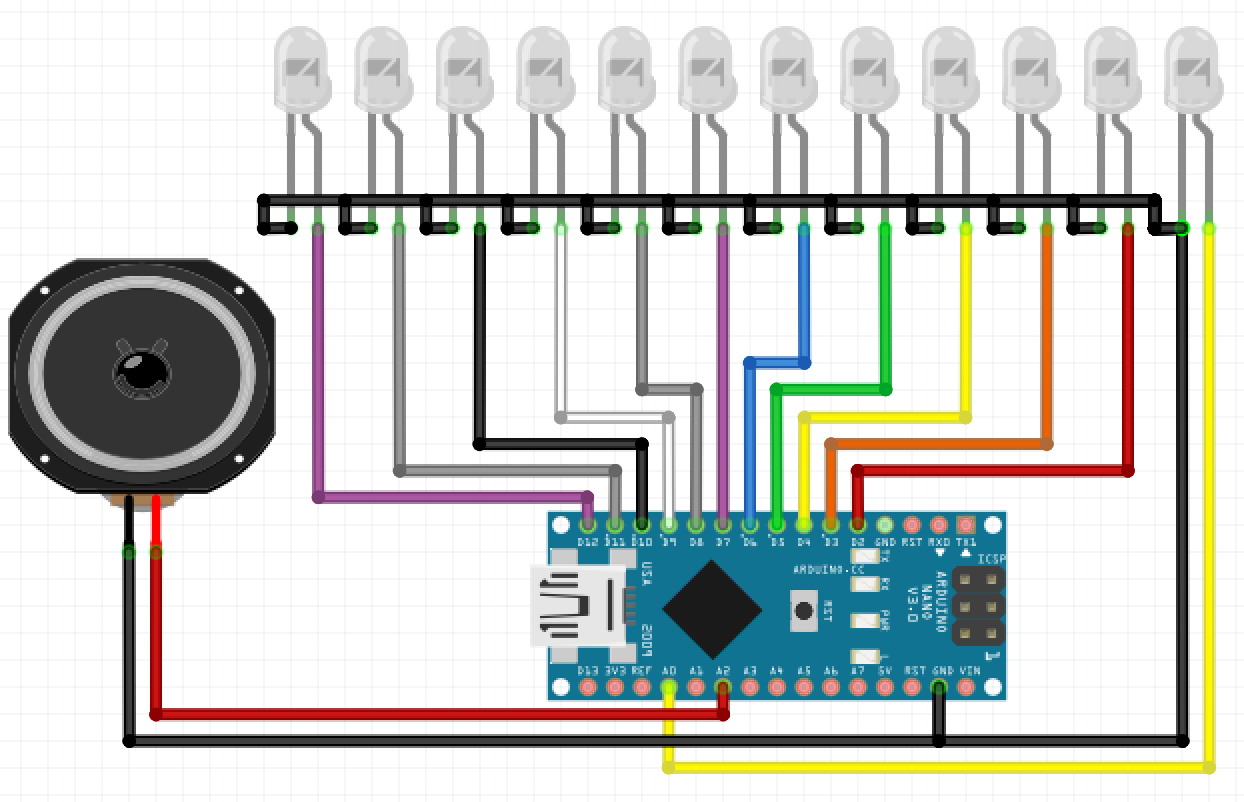
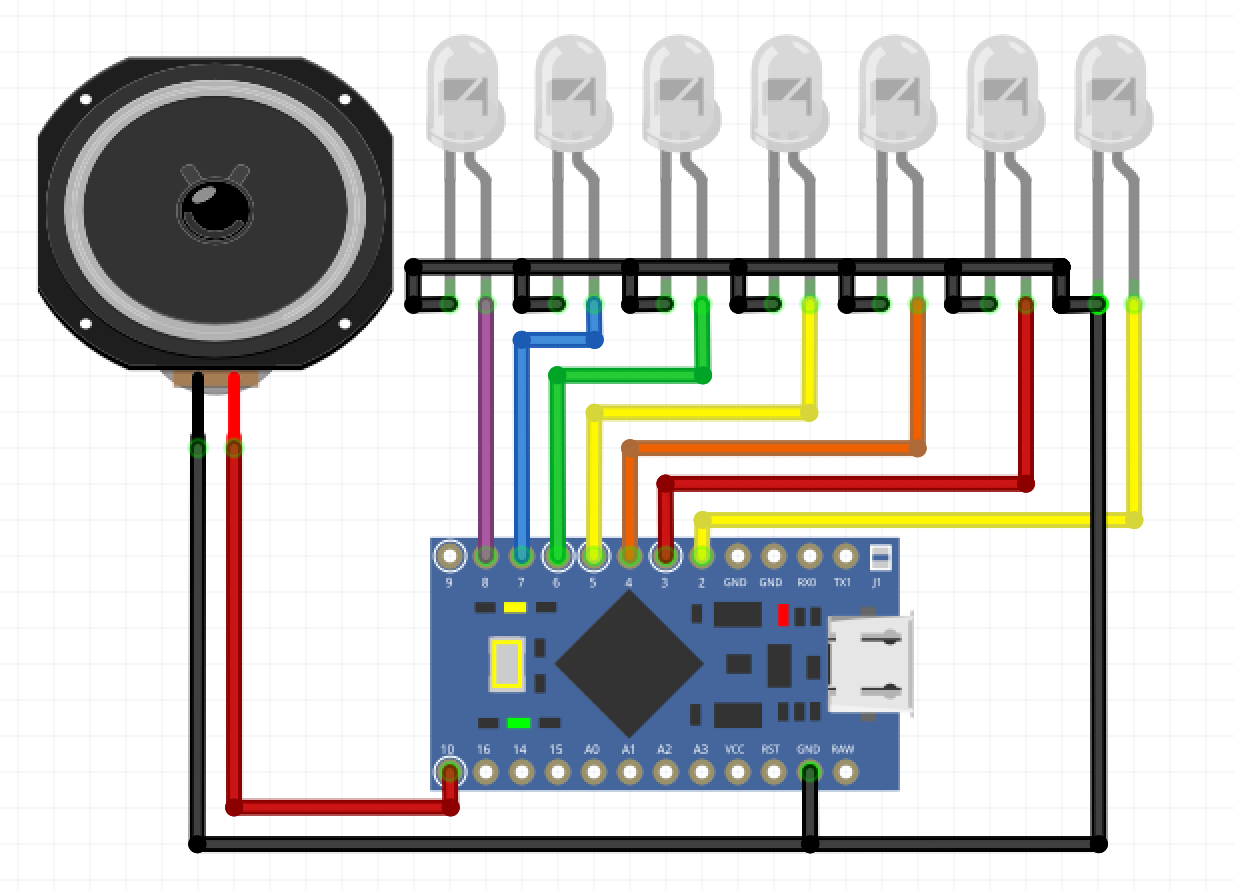
MCU更新成pro micro

diff --git a/Arduino/ArduinoMusic/Tonelib.h b/Arduino/ArduinoMusic/Tonelib.h
@@ -27,18 +27,27 @@ int melody(char s) {  // 频率
 }
 
 int port(char s) { // 发音同时点亮哪个端口的LED
-    if      (s == 'x') { return A0; }  // 低音5#
-    else if (s == 'y') { return 2; }   // 低音6#
-    else if (s == 'z') { return 3; }   // 低音7#
-    else if (s == '1') { return 4; }   // 中音1#
-    else if (s == '2') { return 5; }   // 中音2#
-    else if (s == '3') { return 6; }   // 中音3#
-    else if (s == '4') { return 7; }   // 中音4#
-    else if (s == '5') { return 8; }   // 中音5#
-    else if (s == '6') { return 9; }   // 中音6#
-    else if (s == '7') { return 10; }  // 中音7#
-    else if (s == 'a') { return 11; }  // 高音1#
-    else if (s == 'b') { return 12; }  // 高音2#
+    if      (s == 't') { return 2; }   // 低音1#
+    else if (s == 'u') { return 3; }   // 低音2#
+    else if (s == 'v') { return 4; }   // 低音3#
+    else if (s == 'w') { return 5; }   // 低音4#
+    else if (s == 'x') { return 6; }   // 低音5#
+    else if (s == 'y') { return 7; }   // 低音6#
+    else if (s == 'z') { return 8; }   // 低音7#
+    else if (s == '1') { return 2; }   // 中音1#
+    else if (s == '2') { return 3; }   // 中音2#
+    else if (s == '3') { return 4; }   // 中音3#
+    else if (s == '4') { return 5; }   // 中音4#
+    else if (s == '5') { return 6; }   // 中音5#
+    else if (s == '6') { return 7; }   // 中音6# 
+    else if (s == '7') { return 8; }   // 中音7#
+    else if (s == 'a') { return 2; }  // 高音1#
+    else if (s == 'b') { return 3; }  // 高音2#
+    else if (s == 'c') { return 4; }  // 高音3#
+    else if (s == 'd') { return 5; }  // 高音4#
+    else if (s == 'e') { return 6; }  // 高音5#
+    else if (s == 'f') { return 7; }  // 高音6#
+    else if (s == 'g') { return 8; }  // 高音7#
     else { return  0; }
 }
 
